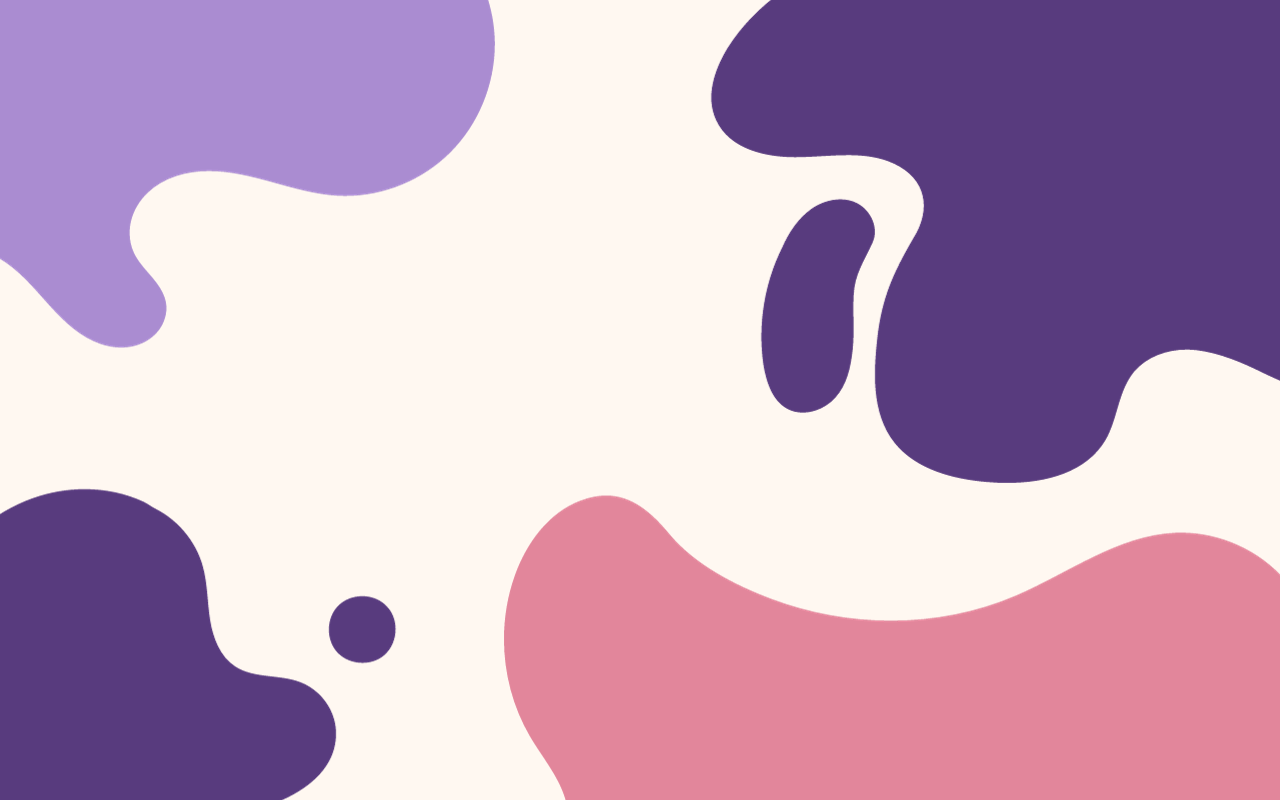
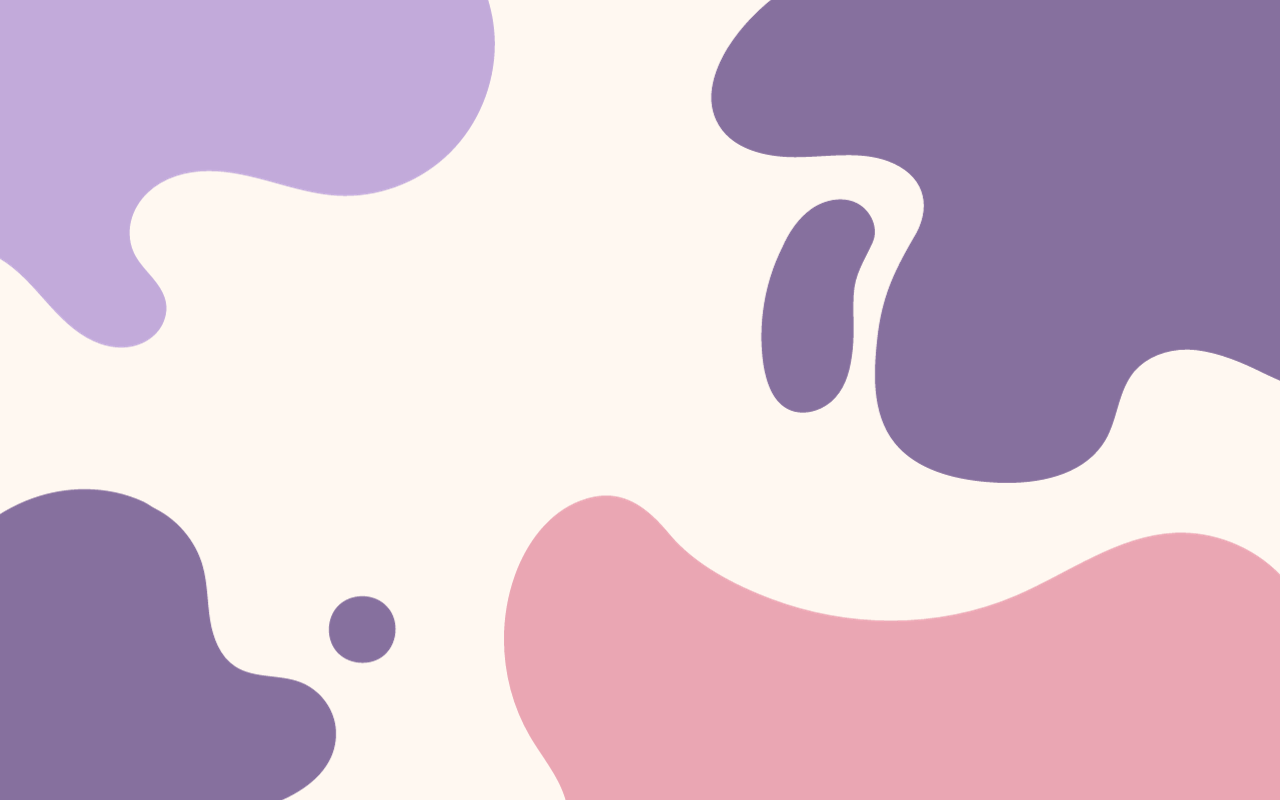
cambios

diff --git a/StorianWeb/core/static/css/styles-registro.css b/StorianWeb/core/static/css/styles-registro.css
@@ -1,9 +1,4 @@
-body {
-    font-family: Arial, sans-serif;
-    background-color: #f4f4f4;
-    margin: 0;
-    padding: 0;
-}
+
 
 .header {
     background-color: #333;
@@ -84,16 +79,6 @@ body {
 }
 
 
-body {
-    display: flex;
-    justify-content: center;
-    align-items: center;
-    height: 100vh;
-    margin: 0;
-    background-color: #f9f9f9;
-    font-family: Arial, sans-serif;
-}
-
 .login-container {
     background-color: #ffffff;
     padding: 40px;
@@ -145,6 +130,11 @@ input[type="password"] {
     background-color: #0056b3;
 }
 
-
+body {
+    min-height: 100%;
+    background-color: #fff4fb;
+    background-image: url('../assets/img/Fondo8.png');
+      background-size: cover;
+  }
 
 

diff --git a/StorianWeb/core/templates/core/registro.html b/StorianWeb/core/templates/core/registro.html
@@ -1,6 +1,7 @@
 {% extends 'core/baseindex.html' %}
 {% load static %}
 {% block content %}
+<link rel="stylesheet" href="{% static 'css/styles-registro.css' %}">
 <div class="row">
     <div class="col-md-6 offset-md-3 registration-container">
         <form>
